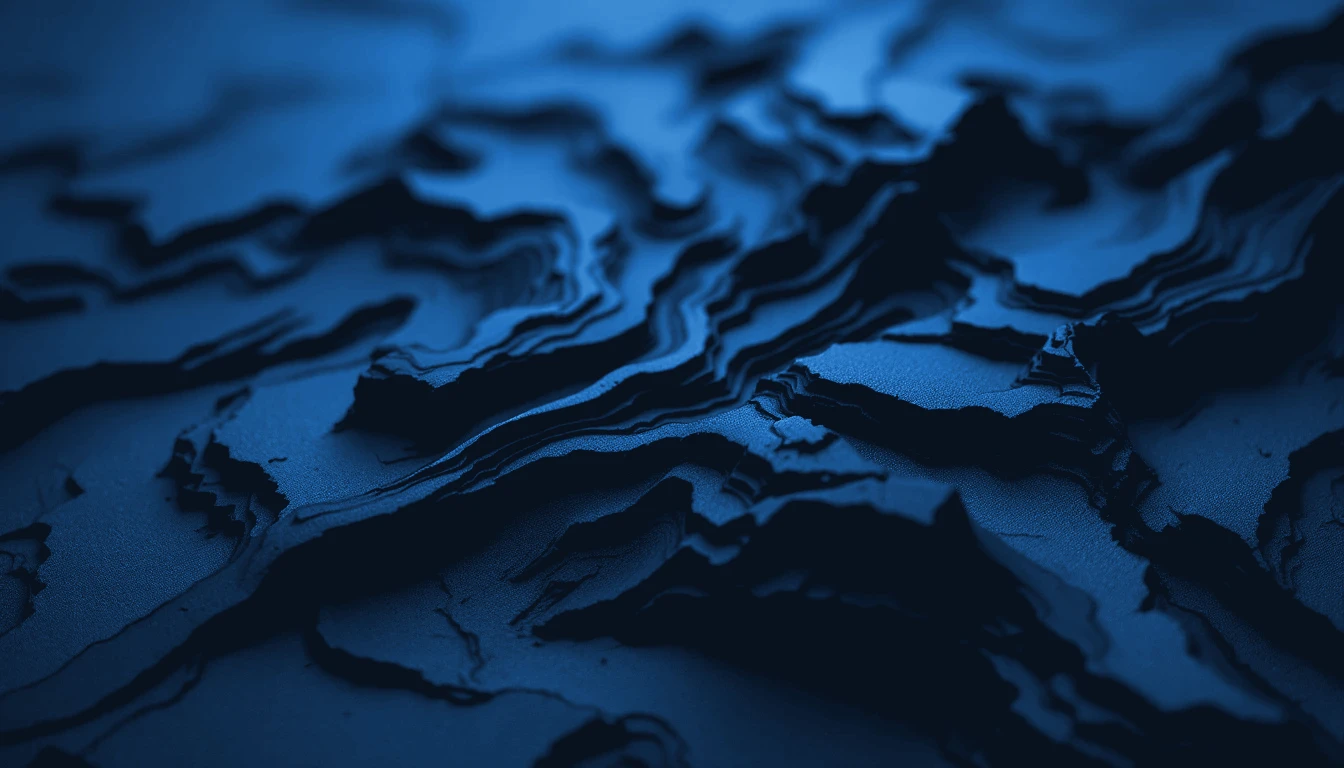
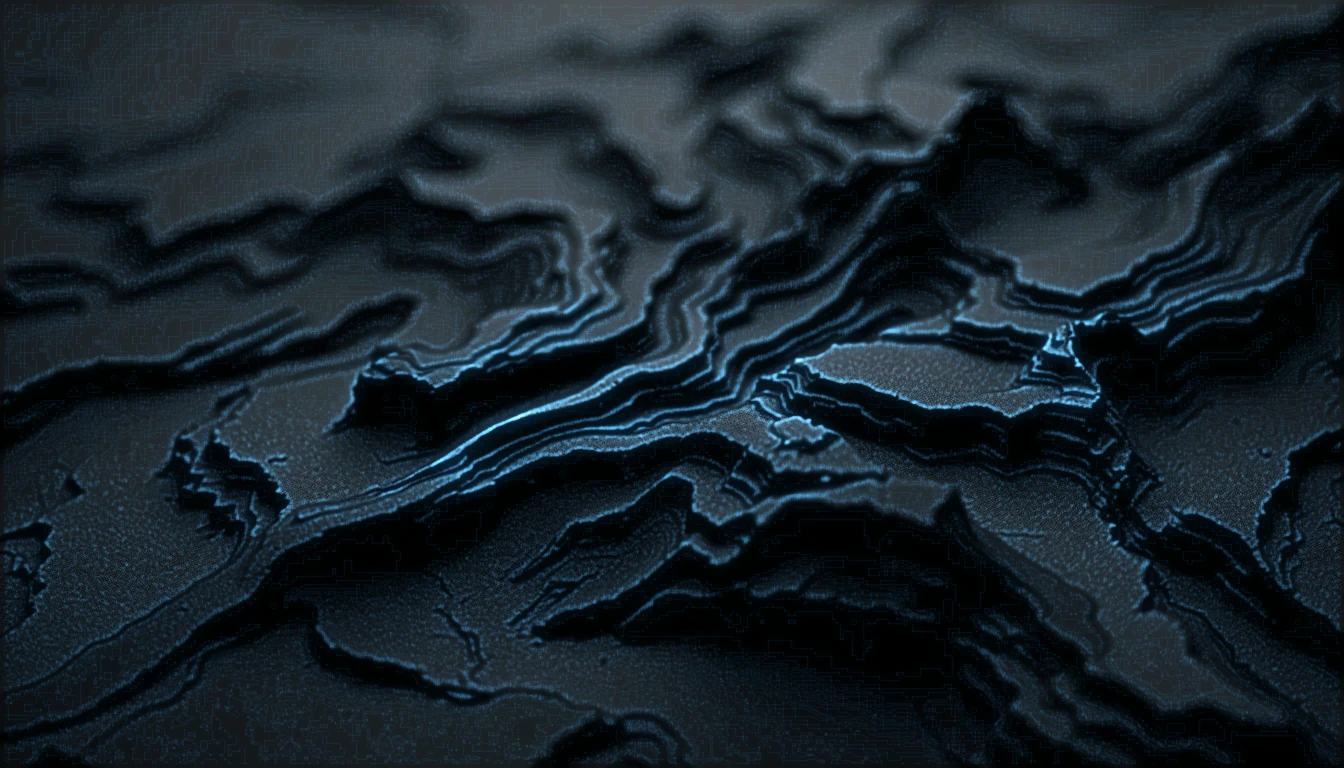
Hero v2: grietas encendidas en vivo + parrafos homologados
- reveal.webp se deriva pixel-perfecto de la base y solo enciende las
  costuras del estrato en azul (estilo volcan techy); el spotlight
  prende el mismo relieve en vivo en vez de tapar con otra imagen.
- Bloques inferiores en una fila items-start: ambos parrafos arrancan a
  la misma altura, el boton cuelga bajo el derecho.

diff --git a/src/components/site/HeroReveal.tsx b/src/components/site/HeroReveal.tsx
@@ -185,23 +185,26 @@ export function HeroReveal({
         </h1>
       </div>
 
-      {/* bottom-left */}
-      <div className="hero-anim hero-fade hidden sm:block absolute bottom-14 left-10 md:left-14 max-w-[260px] z-50" style={{ animationDelay: "0.7s" }}>
-        <p className="text-sm text-white/80 leading-relaxed">{paraLeft}</p>
-      </div>
+      {/* bottom row: ambos parrafos arrancan a la misma altura (items-start) */}
+      <div className="absolute bottom-10 sm:bottom-14 left-5 right-5 md:left-14 md:right-14 z-50 flex items-start justify-between gap-8 pointer-events-none">
+        {/* bottom-left */}
+        <p className="hero-anim hero-fade hidden sm:block max-w-[260px] text-sm text-white/80 leading-relaxed" style={{ animationDelay: "0.7s" }}>
+          {paraLeft}
+        </p>
 
-      {/* bottom-right */}
-      <div
-        className="hero-anim hero-fade absolute bottom-10 sm:bottom-24 left-5 right-5 sm:left-auto sm:right-10 md:right-14 max-w-full sm:max-w-[260px] flex flex-col items-start gap-4 sm:gap-5 z-50"
-        style={{ animationDelay: "0.85s" }}
-      >
-        <p className="text-xs sm:text-sm text-white/80 leading-relaxed">{paraRight}</p>
-        <Link
-          href={cta.href}
-          className="bg-signal hover:bg-signal-dim text-white text-sm font-medium px-7 py-3 rounded-full transition-all hover:scale-[1.03] active:scale-95 hover:shadow-lg hover:shadow-signal/30"
+        {/* bottom-right */}
+        <div
+          className="hero-anim hero-fade w-full sm:w-auto sm:max-w-[260px] flex flex-col items-start gap-4 sm:gap-5"
+          style={{ animationDelay: "0.85s" }}
         >
-          {cta.label}
-        </Link>
+          <p className="text-xs sm:text-sm text-white/80 leading-relaxed">{paraRight}</p>
+          <Link
+            href={cta.href}
+            className="pointer-events-auto bg-signal hover:bg-signal-dim text-white text-sm font-medium px-7 py-3 rounded-full transition-all hover:scale-[1.03] active:scale-95 hover:shadow-lg hover:shadow-signal/30"
+          >
+            {cta.label}
+          </Link>
+        </div>
       </div>
     </section>
   );